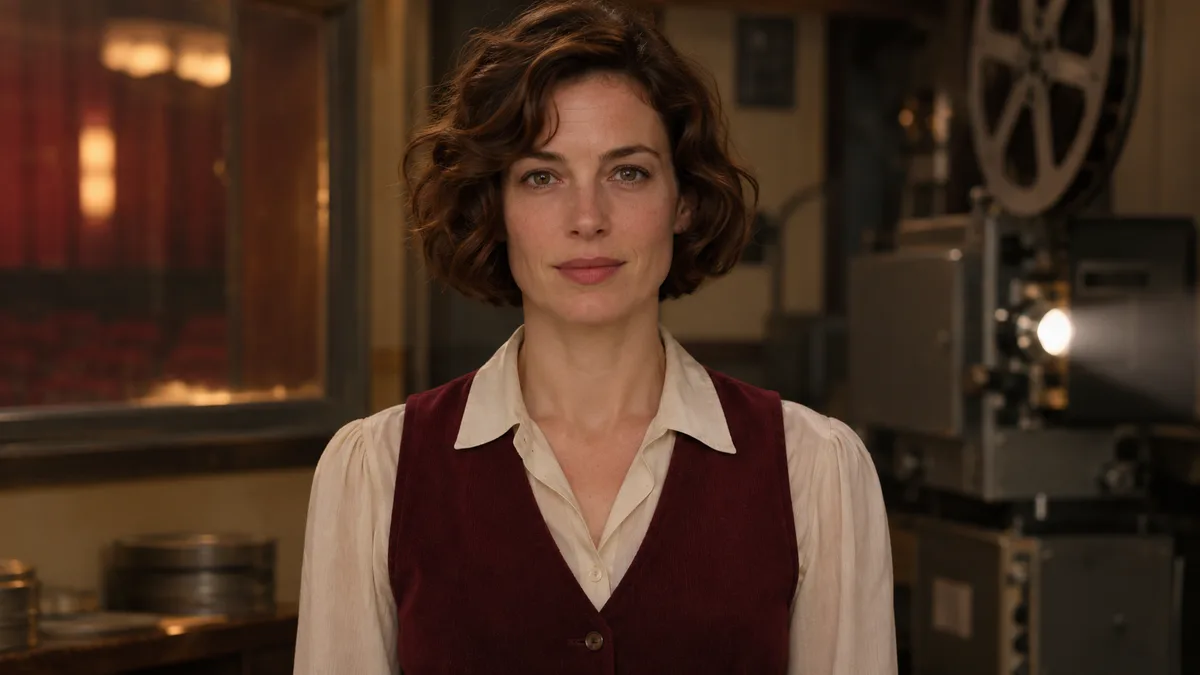
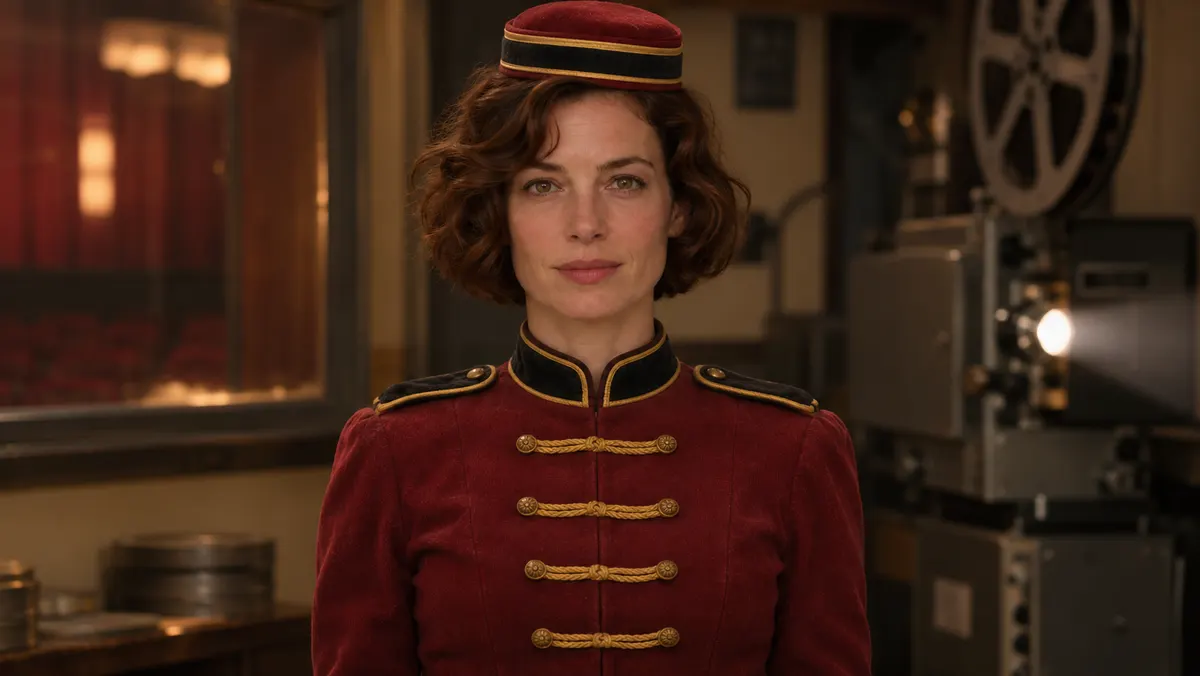
Usher portrait for Jeanne's static picture; session checks read every page

diff --git a/scripts/provision-napster.ts b/scripts/provision-napster.ts
@@ -62,8 +62,14 @@ async function main() {
   for (const id of ours) if (!agents.some((a) => a.id === id)) throw new Error(`Agent ${id} listed in ${RES_PATH} not found on the account: stop (no duplicate creation).`);
 
   // Safety: no open session on the agents we are about to modify.
-  const sessions = await api<{ items: Array<{ status: string; agent?: { id: string } | null }> }>("/public/sessions?pageSize=100");
-  const open = sessions.items.filter((s) => (s.status === "pending" || s.status === "started") && s.agent && ours.includes(s.agent.id));
+  // Read EVERY page: the list is paginated and the order is not documented.
+  const all: Array<{ status: string; agent?: { id: string } | null }> = [];
+  for (let page = 0; ; page++) {
+    const p = await api<{ items: typeof all; totalCount: number }>(`/public/sessions?pageSize=100&pageIndex=${page}`);
+    all.push(...p.items);
+    if (!p.items.length || all.length >= p.totalCount) break;
+  }
+  const open = all.filter((s) => (s.status === "pending" || s.status === "started") && s.agent && ours.includes(s.agent.id));
   if (open.length) throw new Error(`${open.length} session(s) open on these agents: close them before changing the global configuration.`);
 
   for (const character of ["jeanne", "malik"] as const) {

diff --git a/HISTORY.md b/HISTORY.md
@@ -35,3 +35,4 @@
 - **The conservation report is now dated June 2016**: "Can we change the date of the report to 2016 ?". The report reads "Rapport de conservation, juin 2016 : lors des crues, infiltration dans la cabine…" (en: "Conservation report, June 2016: during the floods…"), so it ties the booth damage to the floods Malik remembers; his flood memory no longer hedges beyond "until he has read the report he does not know whether Le Régina was hit". Every 2008 mention moved to 2016: Malik's disclosure, what Jeanne is told when the report is shown, hints, notebook title, UI button, rehearsal lines, the player-turn indicator (`2016` now backs a report share), leak/projection tests and GAME_LOGIC. No Napster tool or agent prompt contained the date. Rules and state are unchanged, so the episode version stays 2 (current runs keep working). verify green, bundle check clean.
 - **New Jeanne companions from the 1996 usher portrait** (started): "can you update jeanne companions v1 and v2 with this image?". The image is the usher portrait already generated in `assets-src` (same file), now committed so Napster can fetch it from the public repo. Created Jeanne V1 `64ea1196…` and V2 `39ab2b8d…` from it (recorded under `companionsPending`); the previous Jeanne companions are kept. They get attached to the two Jeanne agents once Napster reports them ready, and only while no session is open on them.
 - **Usher Jeanne V1 attached as an interim**: "can you switch now so we can at least see the new V1 before V2". No session was open on the Jeanne agents; both (fr, en) now point to `64ea1196…`, checked by GET. Config: `companions.jeanne` and `companionsV1.jeanne` = usher V1; the first Jeanne V1/V2 kept under `companionsRetired`. The usher V2 will replace it once ready.
+- **Static Jeanne portrait matches the usher avatar**: "Can't see, need restart?". Napster showed no session since 19:26: the page had not opened a conversation since the switch, so the PiP showed the static portrait, still the old one. `public/assets/afterimage/characters/jeanne-reference-{600,1200}.webp` regenerated from the usher portrait (same 16:9 size). Also: the "no open session" checks of `provision-napster.ts` and `v2-compare.mjs` read only one page of the session list (125 sessions); they now read every page. An old `afterimage-smoketest` websocket session (other agent) still shows as pending.
